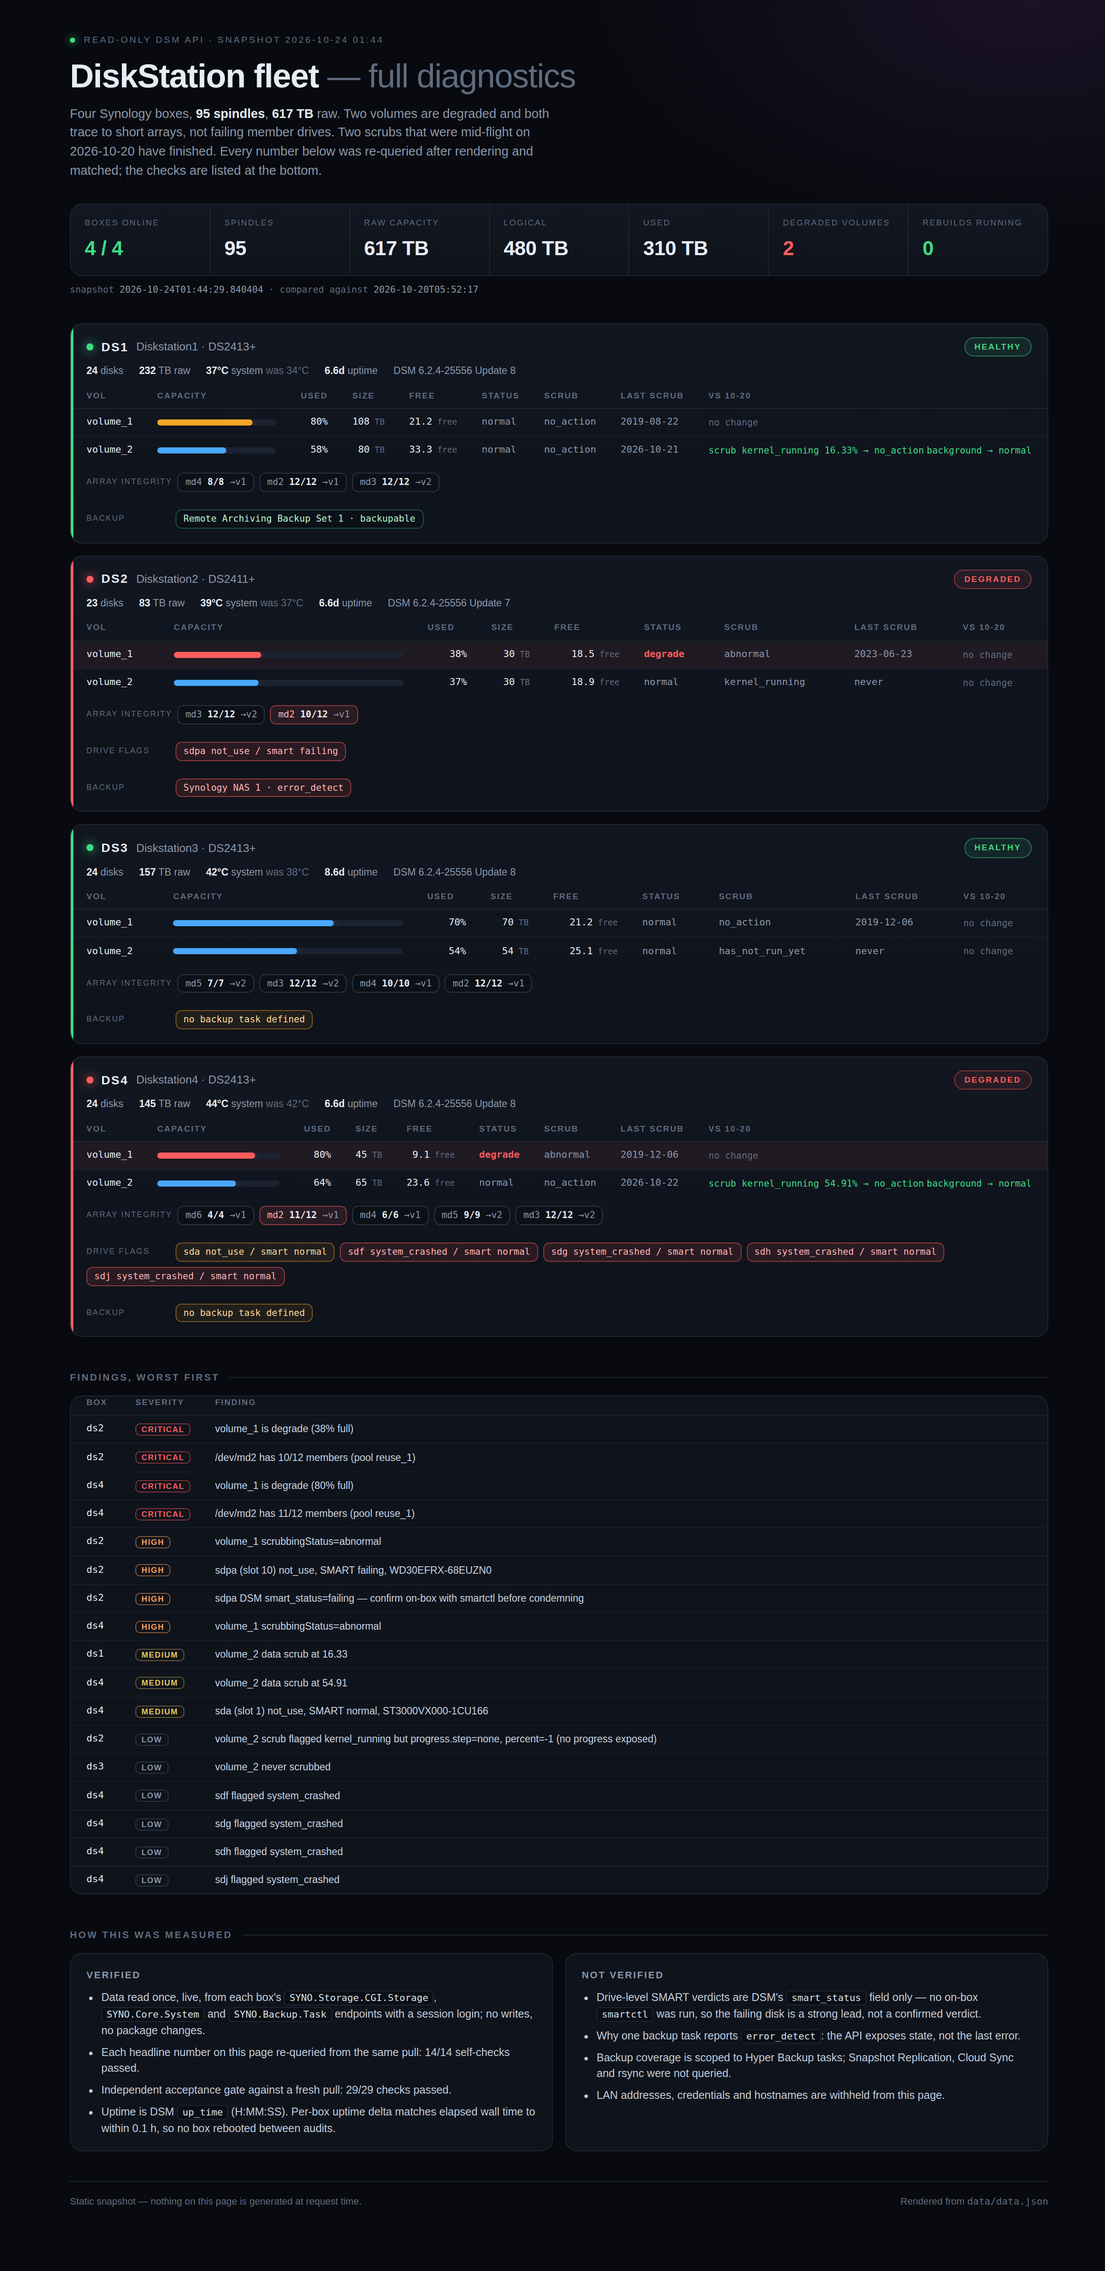
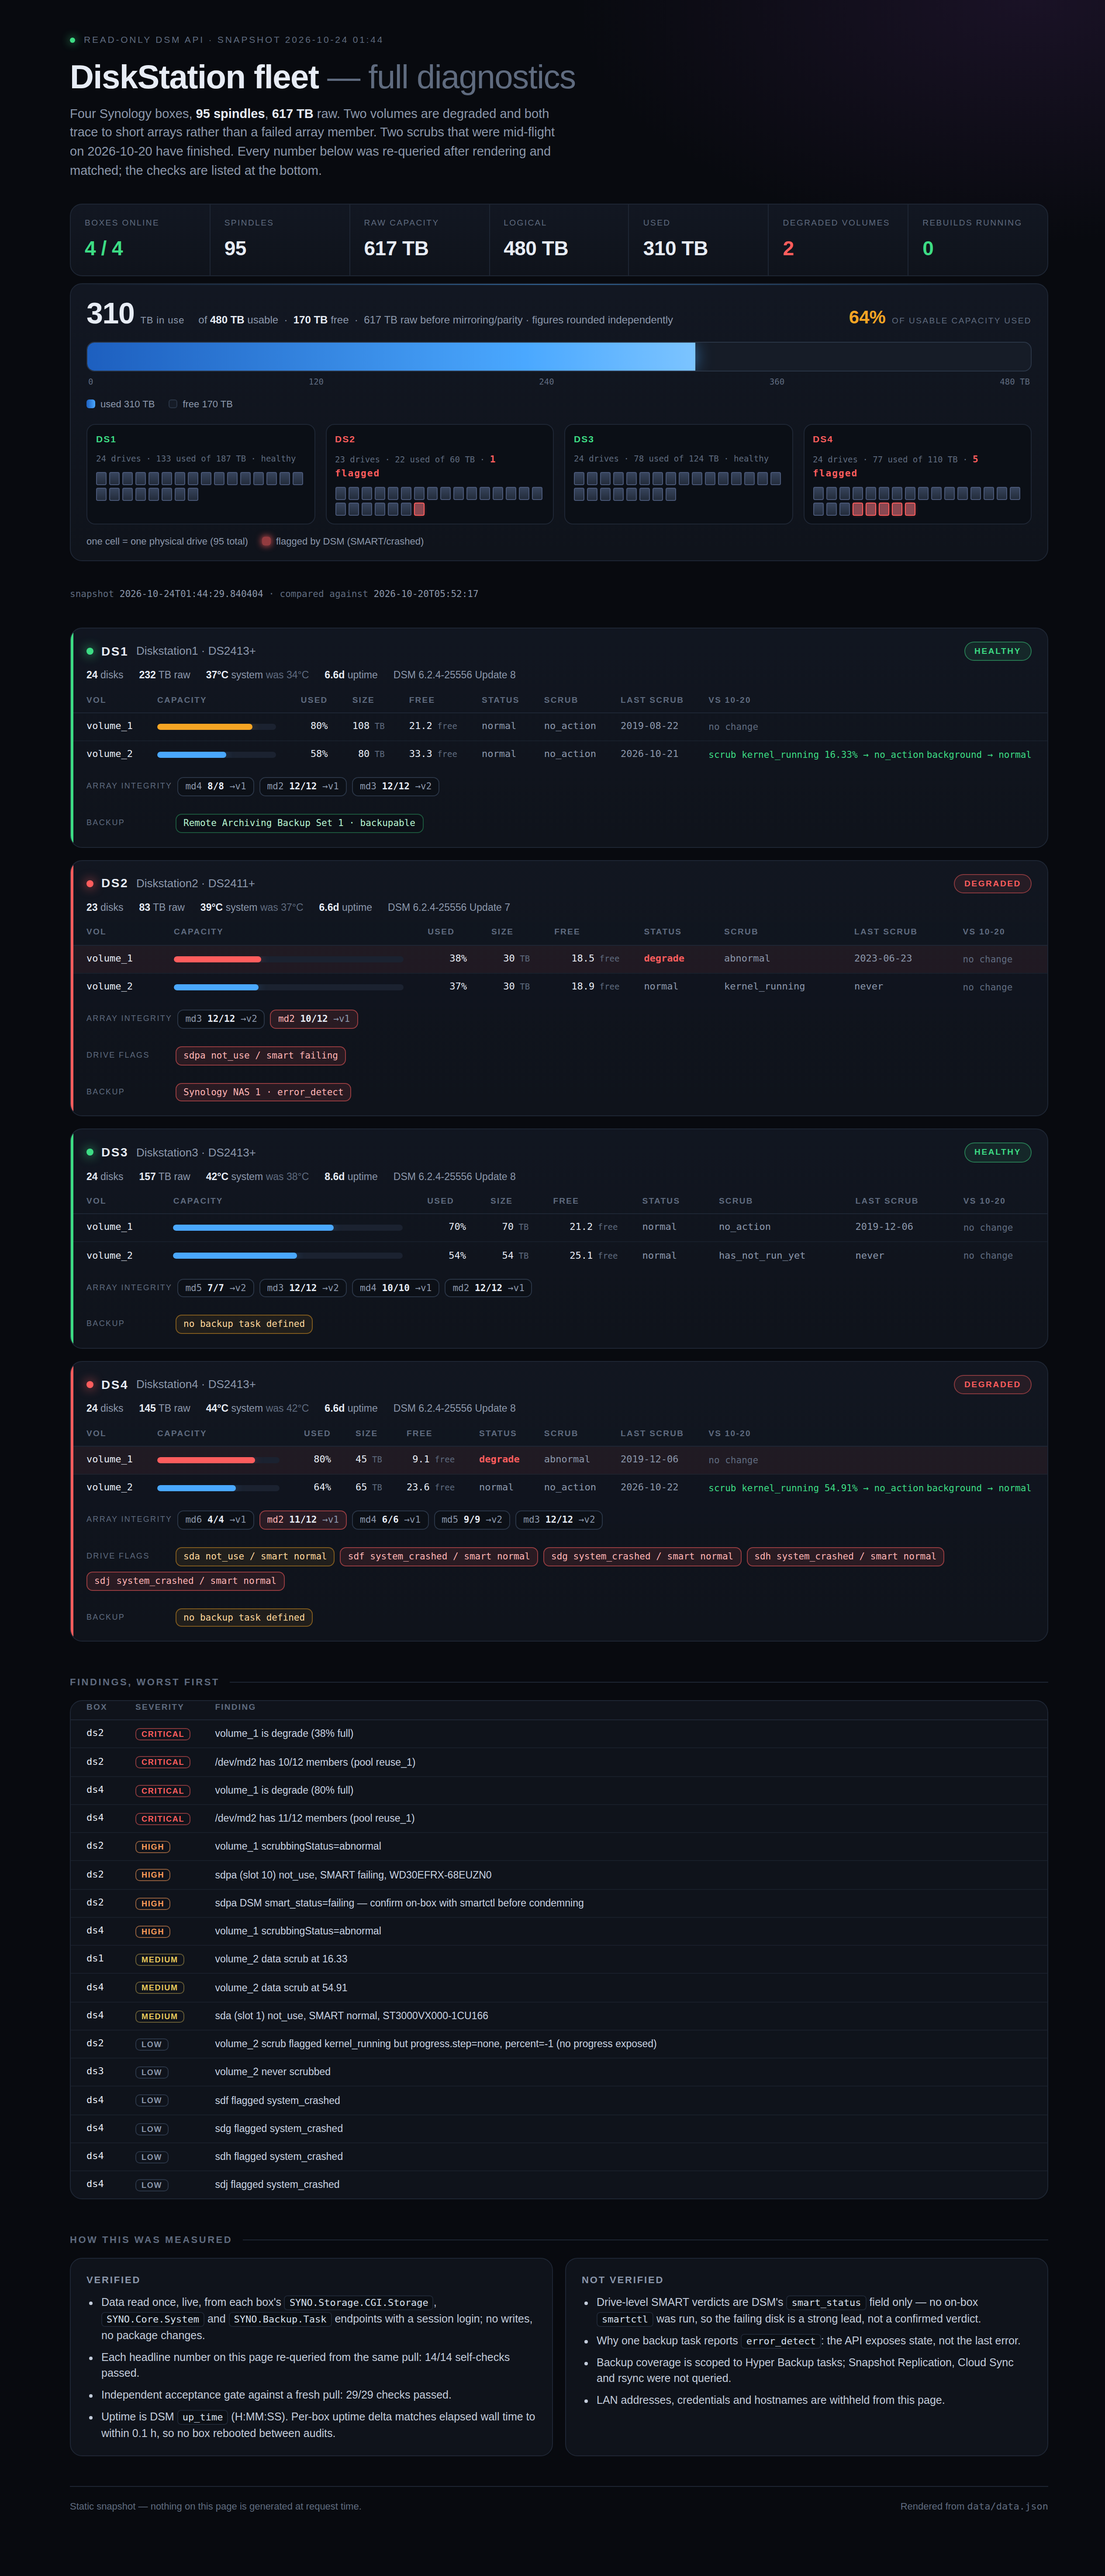
docs/preview: describe the capacity panel, re-shoot preview from the live page

diff --git a/README.md b/README.md
@@ -25,6 +25,9 @@ Fleet totals: **95 spindles · 617 TB raw · 480 TB logical ·
 
 ## What it says
 
+- **Capacity at a glance**: 617 TB raw / 480 TB usable across 95 drives, of which 310 TB is in use
+  (64%) and 170 TB is free. The page draws this as one used/free bar on a 0–480 TB scale, and under
+  it one cell per physical drive grouped by box, with DSM-flagged drives lit red (6 of 95).
 - **Two volumes degraded**, both traceable to a short array rather than a failing member drive:
   `md2` at 10/12 members on box 2 and 11/12 on box 4, with two-disk and one-disk redundancy left
   respectively. No rebuild is running on any box, so nothing is self-healing.
